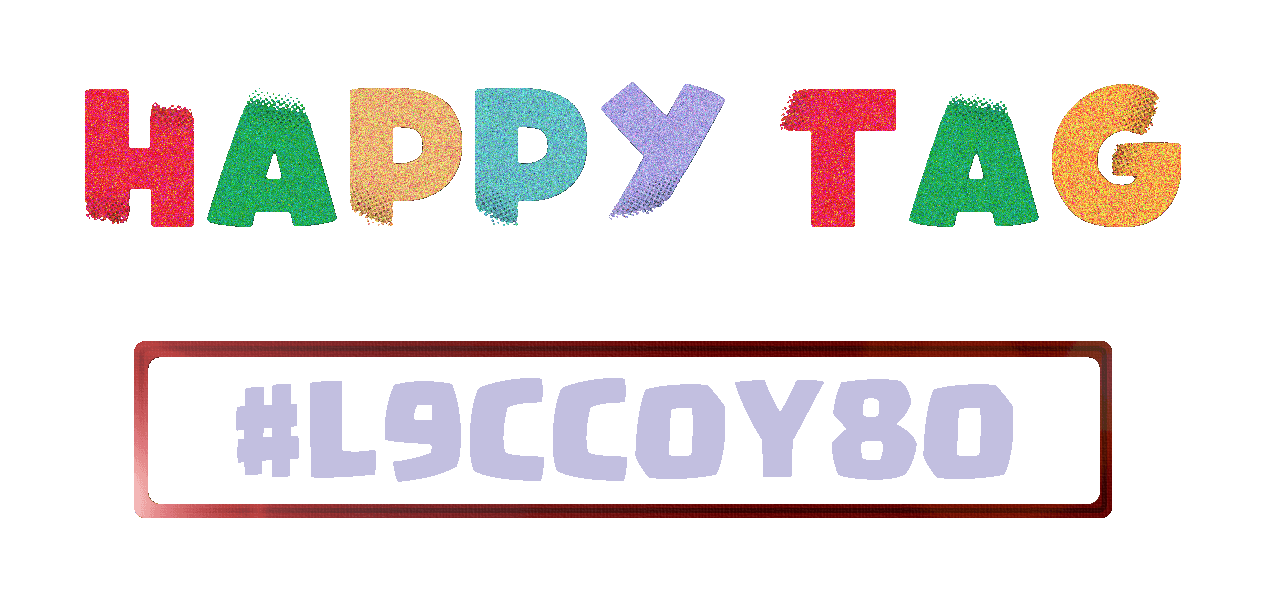
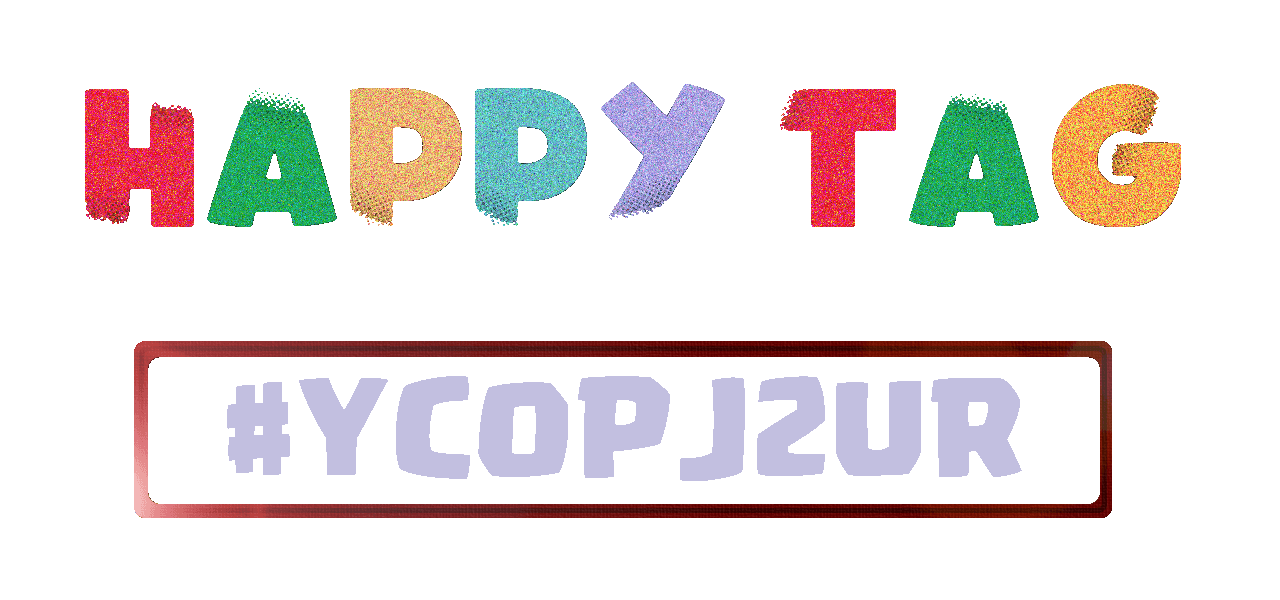
tt i tagi

Changed region(s): [[0.1562, 0.6, 0.8125, 0.81]]

diff --git a/en/happy-draw/index.html b/en/happy-draw/index.html
@@ -183,6 +183,15 @@
   <div class="slideshow-container1 mt-4">
     <div class="mySlides1 fade1">
       <a
+        href="https://twitter.com/GrandZoneGaming/status/1306337034001317890"
+      >
+        <img src="/assets/img/twitter/2.jpg" style="width: 100%;" />
+      </a>
+    </div>
+
+  <div class="slideshow-container1 mt-4">
+    <div class="mySlides1 fade1">
+      <a
         href="https://twitter.com/GrandZoneGaming/status/1302720106829668353?s=19"
       >
         <img src="/assets/img/twitter/1.jpg" style="width: 100%;" />
@@ -194,6 +203,7 @@
   </div>
 
   <div class="text-center mt-2">
+    <span class="dot1" onclick="currentSlide1(2)"></span>
     <span class="dot1" onclick="currentSlide1(1)"></span>
   </div>
 </div>

diff --git a/pl/happy-draw/index.html b/pl/happy-draw/index.html
@@ -225,6 +225,14 @@
   <div class="slideshow-container1 mt-4">
     <div class="mySlides1 fade1">
       <a
+        href="https://twitter.com/GrandZoneGaming/status/1306337034001317890"
+      >
+        <img src="/assets/img/twitter/2.jpg" style="width: 100%;" />
+      </a>
+    </div>
+
+    <div class="mySlides1 fade1">
+      <a
         href="https://twitter.com/GrandZoneGaming/status/1302720106829668353?s=19"
       >
         <img src="/assets/img/twitter/1.jpg" style="width: 100%;" />
@@ -236,6 +244,7 @@
   </div>
 
   <div class="text-center mt-2">
+    <span class="dot1" onclick="currentSlide1(2)"></span>
     <span class="dot1" onclick="currentSlide1(1)"></span>
   </div>
 </div>

diff --git a/pl/happy-tags/index.html b/pl/happy-tags/index.html
@@ -340,7 +340,7 @@
     </a>
   </div>
   <div class="md:w-1/3 p-2">
-    <a href="https://royaleapi.com/player/L9CC0Y80">
+    <a href="https://royaleapi.com/player/YC0PJ2UR">
       <img class="rounded shadow" src="/assets/img/happytag7.png" />
     </a>
   </div>
